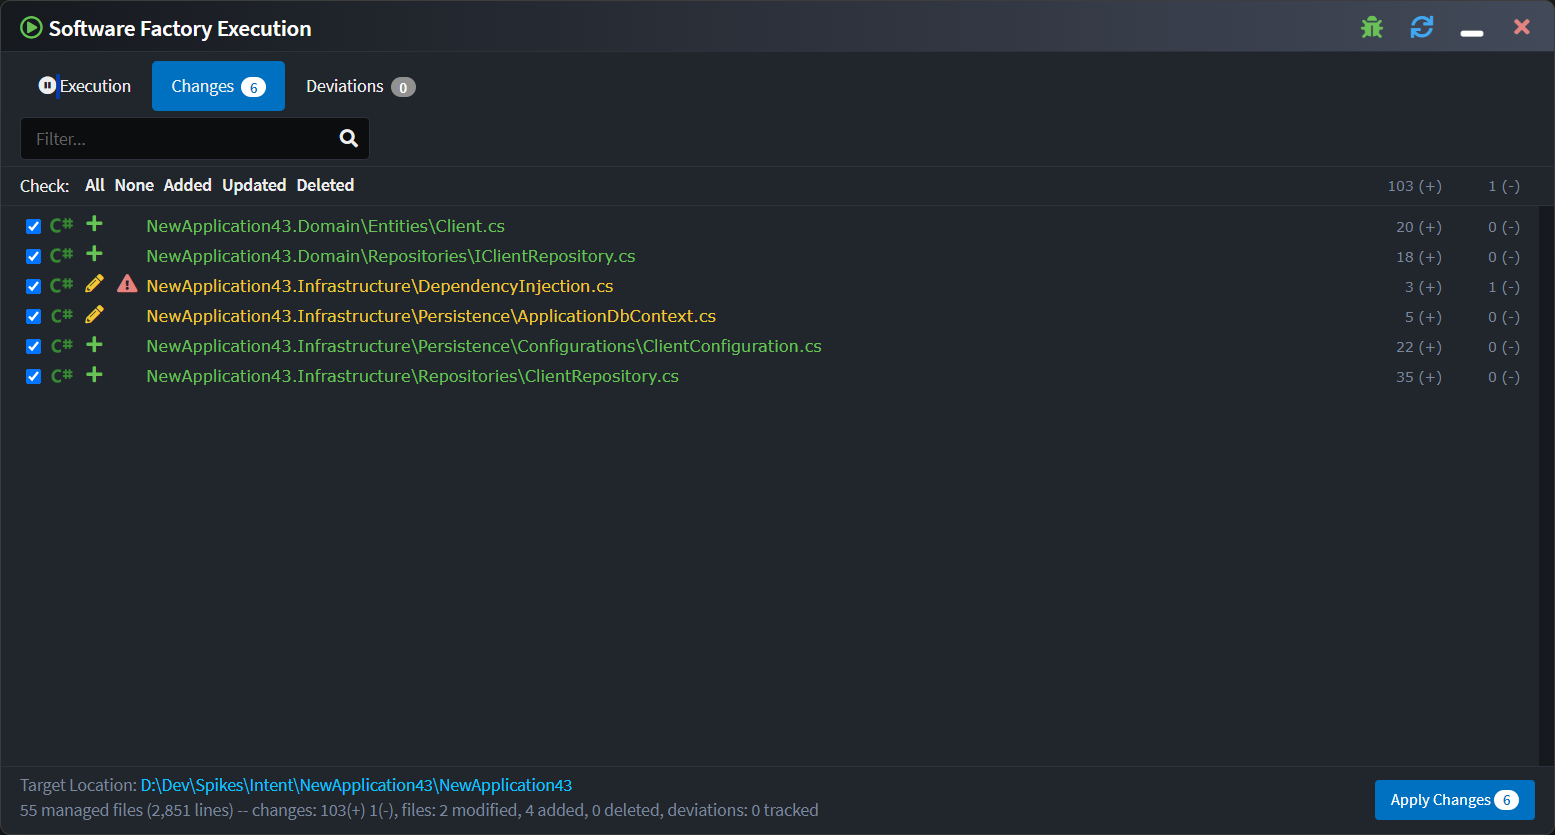
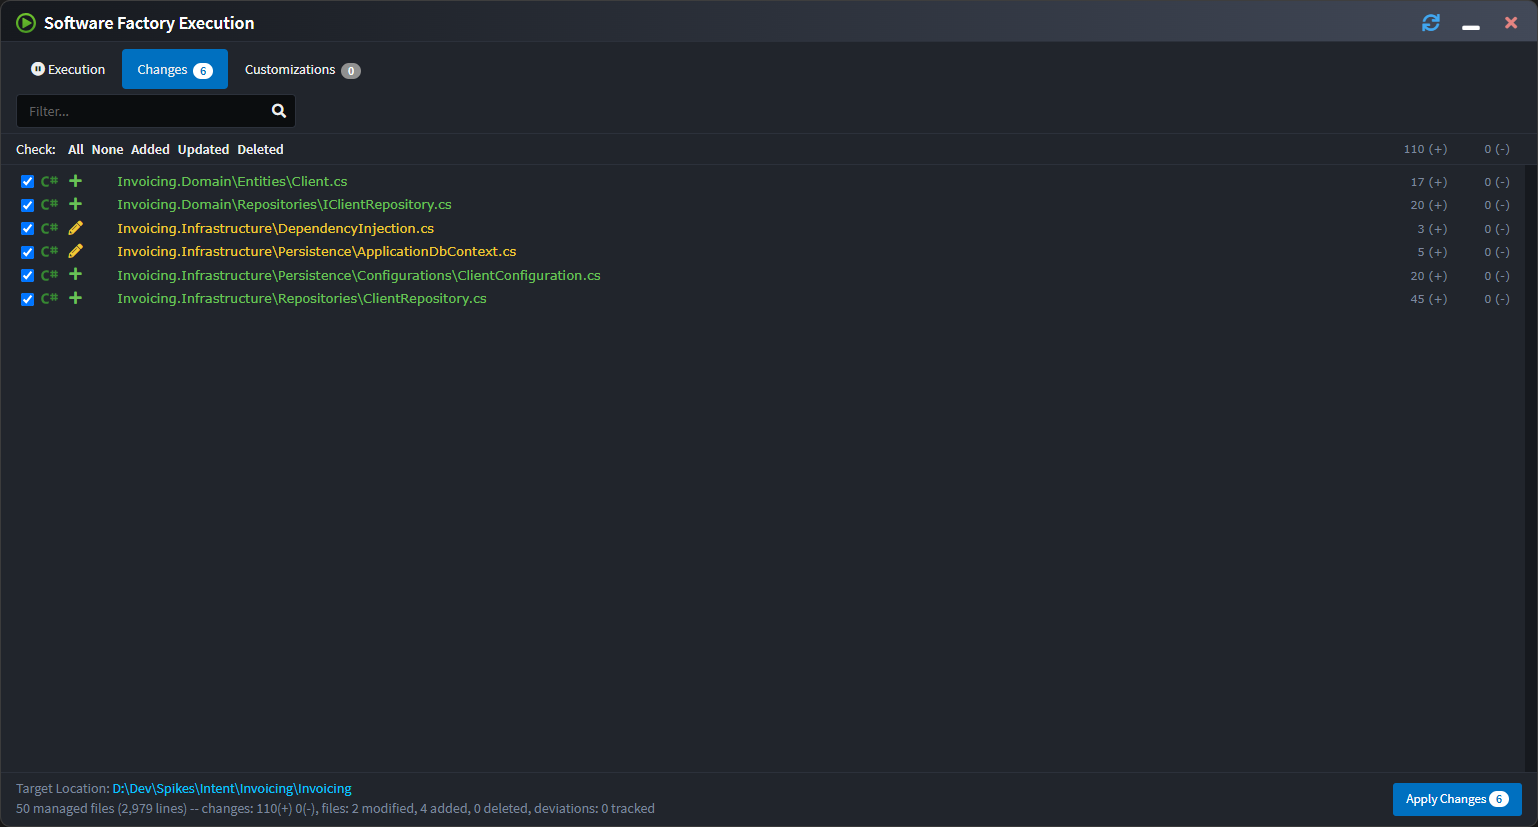
Release note for changes to output log and ignore files, fix out of date customization around deviations.

diff --git a/articles/application-development/applications-and-solutions/git-and-scm-guidance/git-and-scm-guidance.md b/articles/application-development/applications-and-solutions/git-and-scm-guidance/git-and-scm-guidance.md
@@ -9,8 +9,8 @@ This article provides an overview on working with Intent Architect and SCM (Sour
 
 Intent Architect is not inherently aware of SCMs, it merely reads and writes files to your file system, allowing users to use their own choice of SCM systems and associated tooling, but Intent Architect is intentionally designed with the use of SCMs in mind.
 
-In particular, it is intended that Intent Architect files are committed into SCM repositories alongside normal source code files in the same commits. This enables checking out other versions or branches of a code base using your SCM and having the Intent Architect Designer metadata correlate with the committed source code. The other benefit of this approach is that teams practicing automated CI (Continuous Integration) can run the
-[Intent Architect Software Factory CLI tool](https://docs.intentarchitect.com/articles/tools/software-factory-cli/software-factory-cli.html) as part of their CI process to provide another quality check.
+It is intended that Intent Architect files are committed into SCM repositories alongside normal source code files in the same commits. This enables checking out other versions or branches of a code base using your SCM and having the Intent Architect Designer metadata correlate with the committed source code. The other benefit of this approach is that teams practicing automated CI (Continuous Integration) can run the
+[](xref:tools.software-factory-cli) as part of their CI process to provide another quality check.
 
 Another aspect of intentionally designing Intent Architect with SCMs in mind is the format and layout of files. Careful consideration has been applied as to whether Designer metadata is saved in its own file per element or embedded in the file of a parent element. For example, in the Domain Designer each Class is saved as a separate file, with all aspects of it (e.g. Attributes, Operations, Constructors, etc) being saved in the same file. This means that you are unlikely to have merge conflicts with other developers unless you are working on the same Class on the designer. If there is a merge conflict, all files are deliberately stored in a clear text format allowing the conflicts to be resolved using regular merge tools.
 
@@ -26,13 +26,13 @@ Should you alter the layout structure when you create a new Application, the fil
 | `.application.config`     | Intent Architect Application |
 | `modules.config` file     | Installed modules registry |
 | `Intent.Metadata` folder  | Designer Metadata |
-| `.application.deviations.log` / `.application.deviations.xml` | Intent Architect uses this to "audit" which parts of the code base are allowed to deviate from the generated pattern and where it was signed off by authorized users. |
-| `.application.output.log` / `.application.output.xml` | Intent Architect uses this to track files under management so that it can determine when files might need to be deleted or renamed. |
+| `.application.deviations.xml` | Tracks files which have customizations necessitating additions/changes to default code management instructions, see [](xref:application-development.software-factory.customizations-screen) for more information. |
+| `.application.ignored.xml` | Tracks which files have been ignored in the Software Factory changes view and must be committed to source control so that the [](xref:tools.software-factory-cli) running on CI servers and other users will also know which Software Factory files to ignore. This file is only created when at least one file is being ignored. |
 | `intent.repositories.config` file | Solution-level asset repository configuration |
 
 ## Folders which should always be ignored
 
-`.intent` folders should always be ignored, they contain data like downloaded/restored modules and other cached data.
+`.intent` folders should always be ignored, they contain data like downloaded/restored modules and data from previous Software Factory output to facilitate functionality such as advanced merging and knowing which files need to be renamed/deleted.
 
 ## Configuring Git (`.gitignore` files)
 
@@ -44,5 +44,4 @@ If your application or solution was created in a version of Intent Architect les
 # Intent Architect
 
 **/.intent/*
-!*.application.output.log
 ```

diff --git a/articles/release-notes/intent-architect-v4.2.md b/articles/release-notes/intent-architect-v4.2.md
@@ -56,7 +56,7 @@ uid: release-notes.intent-architect-v4.2
 ### Improvements in 4.2.4
 
 - Improvement: Installation of multiple modules is now significantly faster, this is especially noticeable when creating new applications.
-- Improvement: Application templates can now specify minimum versions of module dependencies and interoperabilities making it possible for new applications to have all modules at the latest version.
+- Improvement: Application templates can now specify minimum versions of module dependencies and interoperability making it possible for new applications to have all modules at the latest version.
 
 ### Issues fixed in 4.2.4
 
@@ -97,7 +97,7 @@ Intent Architect V4.2.0 comes with several highly anticipated features, many of 
 
 #### C# code management instruction deviation tracking
 
-It can be useful to know which files may not be following the architecture which your installed Modules normally generates. Intent Architect can now track these "Deviations" and shows them on a new screen during [Software Factory execution](xref:application-development.software-factory.about-software-factory-execution#the-deviations-screen):
+It can be useful to know which files may not be following the architecture which your installed Modules normally generates. Intent Architect can now track these "Deviations" and shows them on a new screen during [Software Factory execution](xref:application-development.software-factory.customizations-screen):
 
 > [!NOTE]
 > At this time deviation tracking is only supported for C# files and requires the `Intent.OutputManager.RoslynWeaver` module, at version `4.6.0` or later, to be installed.
@@ -110,7 +110,7 @@ Selecting the "Compare with Template" context menu option, or simply double-clic
 
 It is possible to immediately remove deviations by updating content in the right pane and saving it which will trigger a "re-merging" of the file by the Software Factory.
 
-Otherwise, deviations can be approved and have notes added to them, for more information refer to the [](xref:application-development.software-factory.about-software-factory-execution#the-deviations-screen) article.
+Otherwise, deviations can be approved and have notes added to them, for more information refer to the [](xref:application-development.software-factory.customizations-screen) article.
 
 #### Edits to staged changes will now be applied
 
@@ -248,7 +248,7 @@ The other "experimental" aspect of this feature is the inline popover of stereot
 - Improved error visibility for the Advanced Mapping dialog.
 - Allow filtering of [Application Templates](xref:application-templates.overview) when creating a new application to include Prerelease and/or Incompatible Application Templates.
 - Stereotypes display their target types inline.
-- Minimum Client Verion stored in `.application.config` files and will trigger compatibility warnings on opening a solution. This Minimum Client Version is determined by the lowest supported client versions from the installed modules.
+- Minimum Client Version stored in `.application.config` files and will trigger compatibility warnings on opening a solution. This Minimum Client Version is determined by the lowest supported client versions from the installed modules.
 - Collapse button in tree views will now, instead of collapsing the entire tree, incrementally collapse nodes and only hides leaf nodes on each click.
 
 ### Issues fixed in 4.2.0

diff --git a/articles/tools/software-factory-cli/software-factory-cli.md b/articles/tools/software-factory-cli/software-factory-cli.md
@@ -157,7 +157,7 @@ intent-cli ensure-no-outstanding-changes <username> <password> <isln-path> [opti
 |------------------------------------------------------------|-----------|
 |`--application-id <application-id>`                         |The Id of the Intent Architect application. If unspecified then all applications found in the .isln will be run.|
 |`--attach-debugger`                                         |The Software Factory will pause at startup giving you chance to attach a .NET debugger.|
-|`--check-deviations, --check-for-unapproved-customizations` |Whether to also check for any unapproved customizations.|
+|`--check-deviations, --check-for-unapproved-customizations` |Whether to also check for any unapproved [customizations](xref:application-development.software-factory.customizations-screen).|
 |`--continue-on-error`                                       |Whether Software Factory execution should continue to run for other applications when an error is encountered.|
 |`--error-logging-command <error-logging-command>`           |Command to use for logging an error. Some continuous integration environments watch output for \"commands\" for logging of errors. Will be automatically configured when the process is detected to be running on the following kinds of build servers:<br/>- Azure Pipelines: By default applies \"{GetErrorLoggingCommand(CiType.AzurePipelines)}\" (see <https://learn.microsoft.com/azure/devops/pipelines/scripts/logging-commands#logissue-log-an-error-or-warning>)<br/><br/>See the documentation on Serilog.Expressions ExpressionTemplate for formatting options: <https://github.com/serilog/serilog-expressions#formatting-with-expressiontemplate>"|
 |`--warning-logging-command <warning-logging-command>`       |Command to use for logging a warning. Some continuous integration environments watch output for \"commands\" for logging of warnings. Will be automatically configured when the process is detected to be running on the following kinds of build servers:<br/>- Azure Pipelines: By default applies \"{GetWarningLoggingCommand(CiType.AzurePipelines)}\" (see <https://learn.microsoft.com/azure/devops/pipelines/scripts/logging-commands#logissue-log-an-error-or-warning>)<br/><br/>See the documentation on Serilog.Expressions ExpressionTemplate for formatting options: <https://github.com/serilog/serilog-expressions#formatting-with-expressiontemplate>"|
@@ -178,7 +178,7 @@ intent-cli ensure-no-outstanding-changes -- "user@example.com" "@Password1" "./i
 Be aware that any optional arguments will need to be specified before the `--` argument, for example:
 
 ```bash
-intent-cli ensure-no-outstanding-changes --application-id "db9e35a9-c663-478a-93cb-ba7c0fffee43" --check-deviations -- "user@example.com" "@Password1" "./intent-solution.isln"
+intent-cli ensure-no-outstanding-changes --application-id "db9e35a9-c663-478a-93cb-ba7c0fffee43" --check-for-unapproved-customizations -- "user@example.com" "@Password1" "./intent-solution.isln"
 ```
 
 ### Do I have to use the credentials of a user license?

diff --git a/articles/application-development/software-factory/about-software-factory-execution/about-software-factory-execution.md b/articles/application-development/software-factory/about-software-factory-execution/about-software-factory-execution.md
@@ -21,7 +21,7 @@ The Software Factory Execution is initiated from within an Application by clicki
 ![Play Button](images/software-factory-execution-play-button.png)
 _Run the Software Factory from the top tool bar_
 
-You can also run the Software Factory from the applications context menu.
+You can also run the Software Factory from the application's context menu:
 
 ![Run from Context Menu](images/software-factory-context-menu-run.png)
 _Run the Software Factory from the application context menu_
@@ -30,26 +30,3 @@ The Software Factory can also be minimized to the task bar. In this state the So
 
 ![Running in the Background](images/software-factory-minimized.png)
 _Minimized Software Factory running in the background._
-
-## The Deviations screen
-
-It can be useful to know which files may not be following the architecture which your installed modules normally generates.
-
-Towards this, the Software Factory is able to track deviations of code management instructions, i.e. where instructions such as `IntentIgnore` are added to files which aren't present in default template output:
-
-![The deviations screen on the Software Factory](images/deviations.png)
-
-Selecting the "Compare with Template" context menu option or simply double-clicking a deviation will open a diff comparing the unmerged template output (left) with the current file (right):
-
-![Diff of a deviation](images/deviation-diff.png)
-
-It is worth noting that editing and saving the file in the right pane will trigger re-running the code merging for that particular file allowing fixing of deviations without having to open the file through some other means.
-
-Deviations can be approved by right-clicking it and selecting "Approve deviation" which will also record who approved the deviation and when. To see when a deviation was approved, you can hover over the name in the "Approved by" column and read the tooltip which shows.
-
-If the particular deviation(s) for the file changes, the approval is revoked, approvals can also be manually revoked using the context menu.
-
-The final option available on the context menu is the ability to update "Notes" on a deviation, allowing you to enter any free form text which you feel may be relevant to a particular deviation.
-
-> [!TIP]
-> The [Software Factory CLI tool](xref:tools.software-factory-cli)'s `ensure-no-outstanding-changes` command has a `--check-deviations` option that can be used on CI environments to automatically detect unapproved deviations pushed into source control.

diff --git a/articles/application-development/software-factory/customizations-screen/customizations-screen.md b/articles/application-development/software-factory/customizations-screen/customizations-screen.md
@@ -1,0 +1,25 @@
+---
+uid: application-development.software-factory.customizations-screen
+---
+# The Software Factory Customizations screen
+
+It can be useful to know which files may not be following the architecture which your installed modules normally generates.
+
+Towards this, the Software Factory is able to track customizations of code management instructions, i.e. where instructions such as `IntentIgnore` are added to files which aren't present in default template output:
+
+![The customizations screen on the Software Factory](images/customizations.png)
+
+Selecting the "Compare with Template" context menu option or simply double-clicking a customization will open a diff comparing the unmerged template output (left) with the current file (right):
+
+![Diff of a customization](images/customization-diff.png)
+
+It is worth noting that editing and saving the file in the right pane will trigger re-running the code merging for that particular file allowing fixing of customizations without having to open the file through some other means.
+
+Customizations can be approved by right-clicking it and selecting "Approve customization" which will also record who approved the customization and when. To see when a customization was approved, you can hover over the name in the "Approved by" column and read the tooltip which shows.
+
+If the particular customization(s) for the file changes, the approval is revoked, approvals can also be manually revoked using the context menu.
+
+The final option available on the context menu is the ability to update "Notes" on a customization, allowing you to enter any free form text which you feel may be relevant to a particular customization.
+
+> [!TIP]
+> The [](xref:tools.software-factory-cli)'s `ensure-no-outstanding-changes` command has a `--check-for-unapproved-customizations` option that can be used on CI environments to automatically detect unapproved customizations pushed into source control.

diff --git a/articles/release-notes/intent-architect-v4.5.md b/articles/release-notes/intent-architect-v4.5.md
@@ -3,6 +3,20 @@ uid: release-notes.intent-architect-v4.5
 ---
 # Release notes: Intent Architect version 4.5
 
+<!--
+## Version 4.5.19
+
+### Improvements in 4.5.19
+
+- Improvement: To eliminate the cause of many SCM (e.g. Git) file conflicts, the `<application-name>.application.output.log` has been replaced with two separate files:
+  - **`<application-name>.application.ignored.xml`** - Tracks which files have been ignored in the Software Factory changes view and must be committed to source control so that the [Software Factory CLI](https://docs.intentarchitect.com/articles/tools/software-factory-cli/software-factory-cli.html) running on CI servers and other users will also know which Software Factory files to ignore. This file is only created when at least one file is being ignored.
+  - **`.intent/output-log`** - Tracks other aspects of output of the Software Factory for various purposes such as: knowing whether a file from a previous run now needs to be deleted or renamed; "Open in IDE" options for elements in designers, etc. This file should not be committed to source control and because it is in the `.intent` folder, it is by default ignored through the `.gitignore` file which Intent Architect creates as an application is created.
+
+  > [!NOTE]
+  >
+  > Due to the changes in these files, when opening an old solution for the first time Intent Architect will prompt the user to perform a one time migration, after which any attempts to open the same solution on older versions of Intent Architect will present an error that a newer version of Intent Architect is required.
+ -->
+
 ## Version 4.5.18
 
 ### Features in 4.5.18
